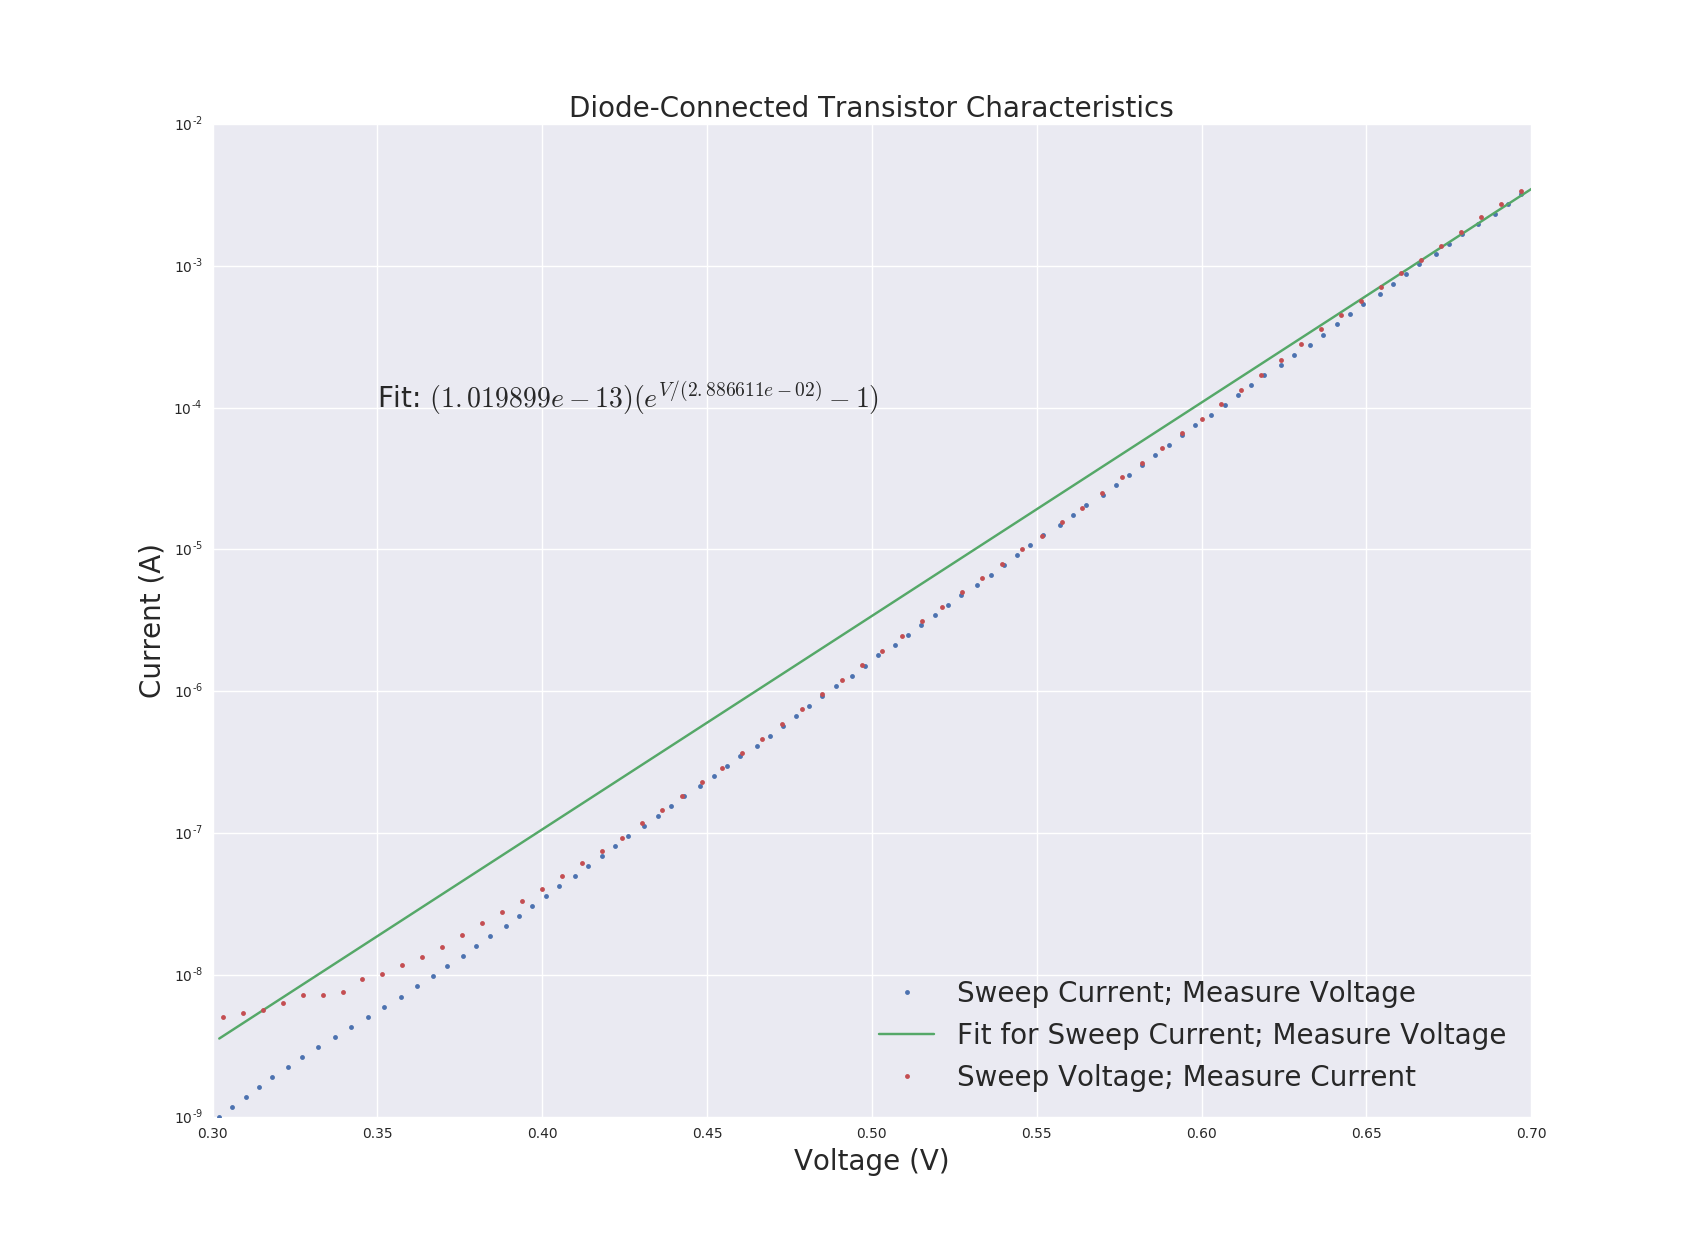
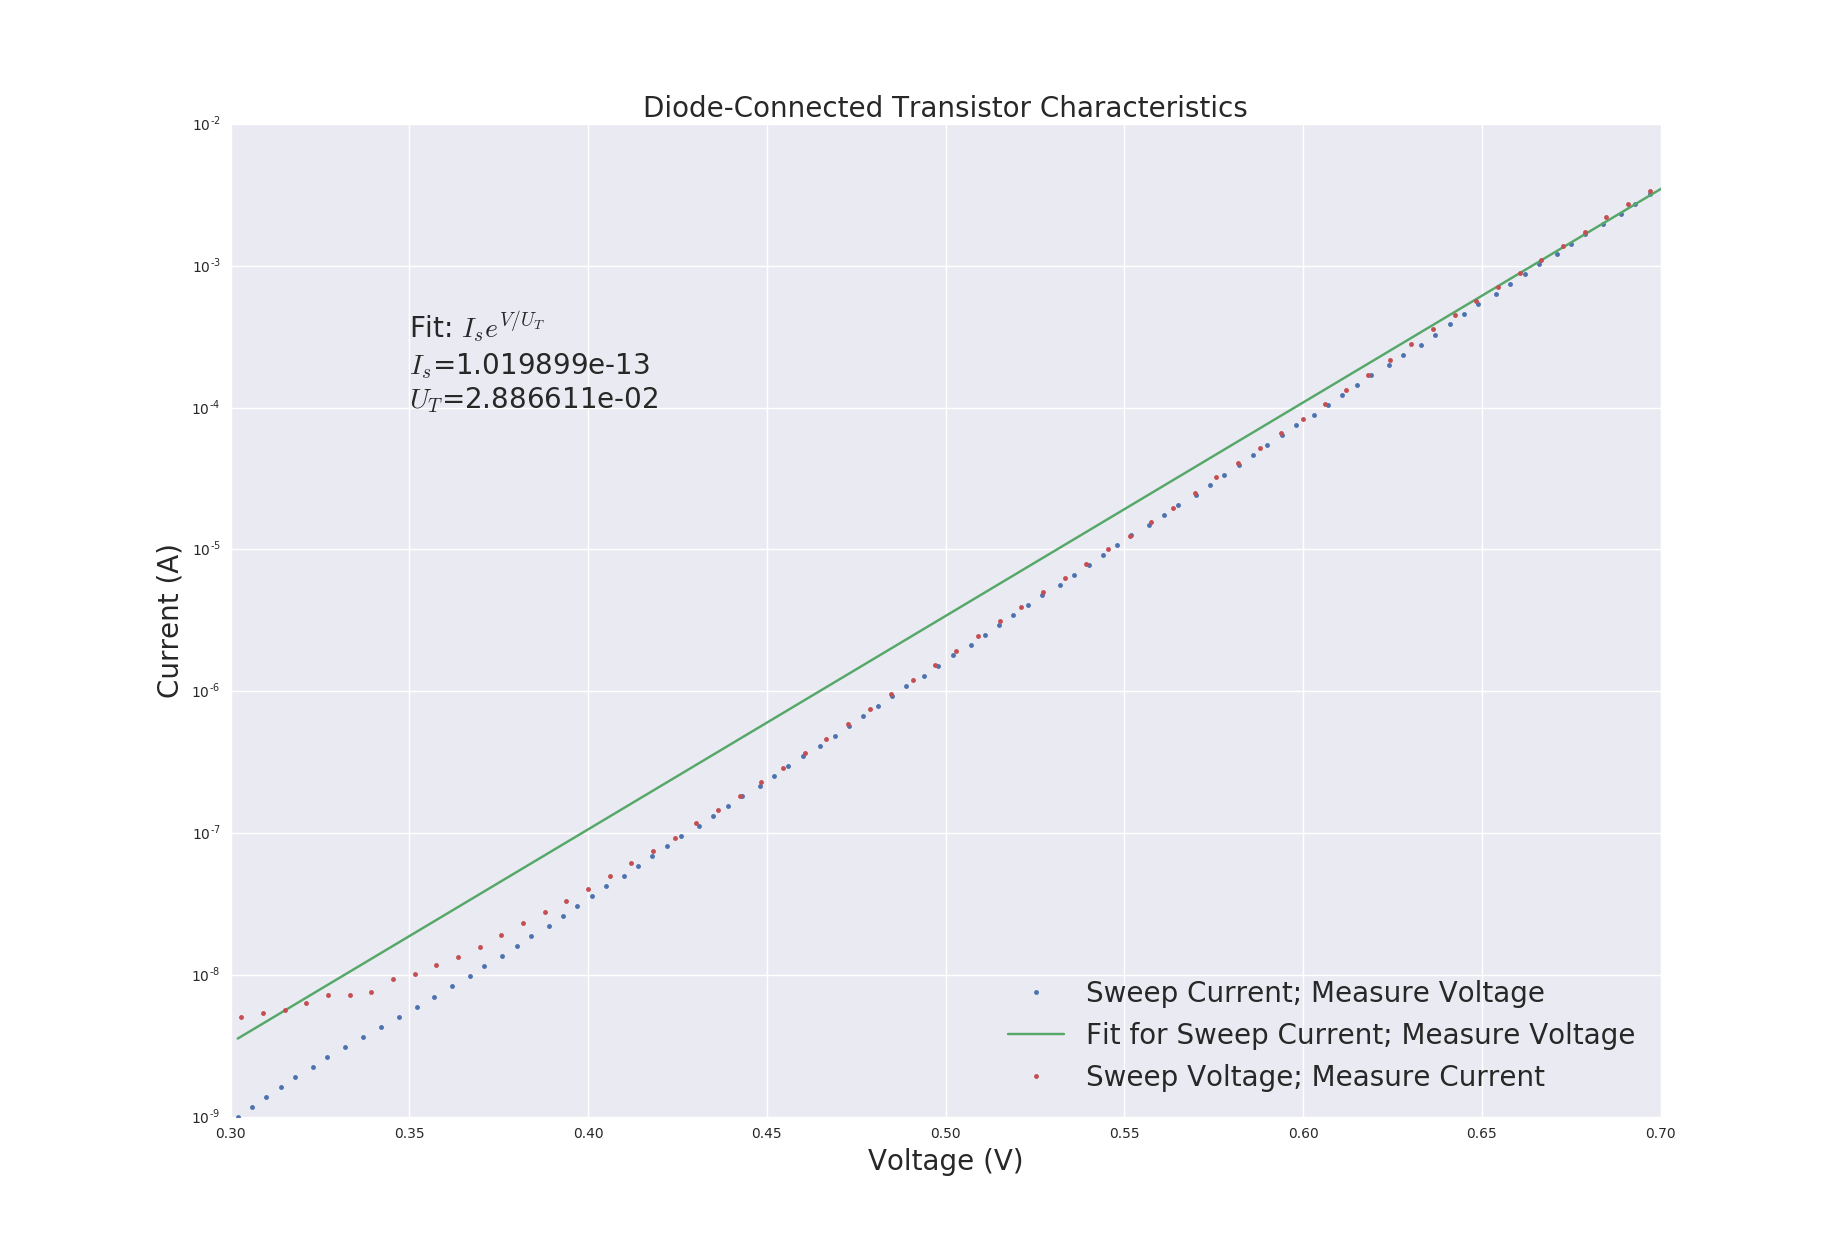
Fixing plots w/ better text

diff --git a/lab2/scripts/plotting2.py b/lab2/scripts/plotting2.py
@@ -17,14 +17,26 @@ with open(VOL_CUR, 'r') as f:
 
 r_d = np.diff(Vout)/np.diff(Iin)
 
-U_T = 2.886611e-02
+def func(x, a):
+    return a/x
+
+popt, pcov = curve_fit(func, Iin[:-1], r_d, p0=(1e-2))
+print(popt, pcov)
+U_T = popt[0]
 r_d_theoretical = [ U_T/x for x in Iin[:-1] ]
+
+
+#U_T = 2.886611e-02
+#r_d_theoretical = [ U_T/x for x in Iin[:-1] ]
 
 plt.loglog(Iin[:-1], r_d, '.', label="Experimental")
 plt.loglog(Iin[:-1], r_d_theoretical, '-', label="Theoretical")
+
+
 plt.xlabel("Current (A)", fontsize=20)
 plt.ylabel("Incremental Resistance ($\Omega$)", fontsize=20)
 plt.title("Incremental Resistance vs. Current", fontsize=20)
 plt.legend(fontsize=18)
+plt.text(1e-5, 1e6, "Fit: $r_d = U_T/I$\n$U_T$=%e$\Omega A$" % U_T, fontsize=20)
 #plt.plot(Iin, Vout, '.')
 plt.show()

diff --git a/lab2/scripts/plotting1.py b/lab2/scripts/plotting1.py
@@ -46,6 +46,7 @@ plt.axis([0.3, 0.7, 10e-10, 10e-3])
 plt.xlabel("Voltage (V)", fontsize=20)
 plt.ylabel("Current (A)", fontsize=20)
 plt.title("Diode-Connected Transistor Characteristics", fontsize=20)
-plt.text(0.35, 10e-5, "Fit: " + "$(%e) (e^{V/(%e)}-1)$" % (popt[0], popt[1]), fontsize=20)
+#plt.text(0.35, 10e-5, "Fit: " + "$(%e) (e^{V/(%e)}-1)$" % (popt[0], popt[1]), fontsize=20)
+plt.text(0.35, 10e-5, "Fit: $I_se^{V/U_T}$\n$I_s$=%e\n$U_T$=%e" % (popt[0], popt[1]), fontsize=20)
 plt.legend(loc=4, fontsize=20)
 plt.show()
